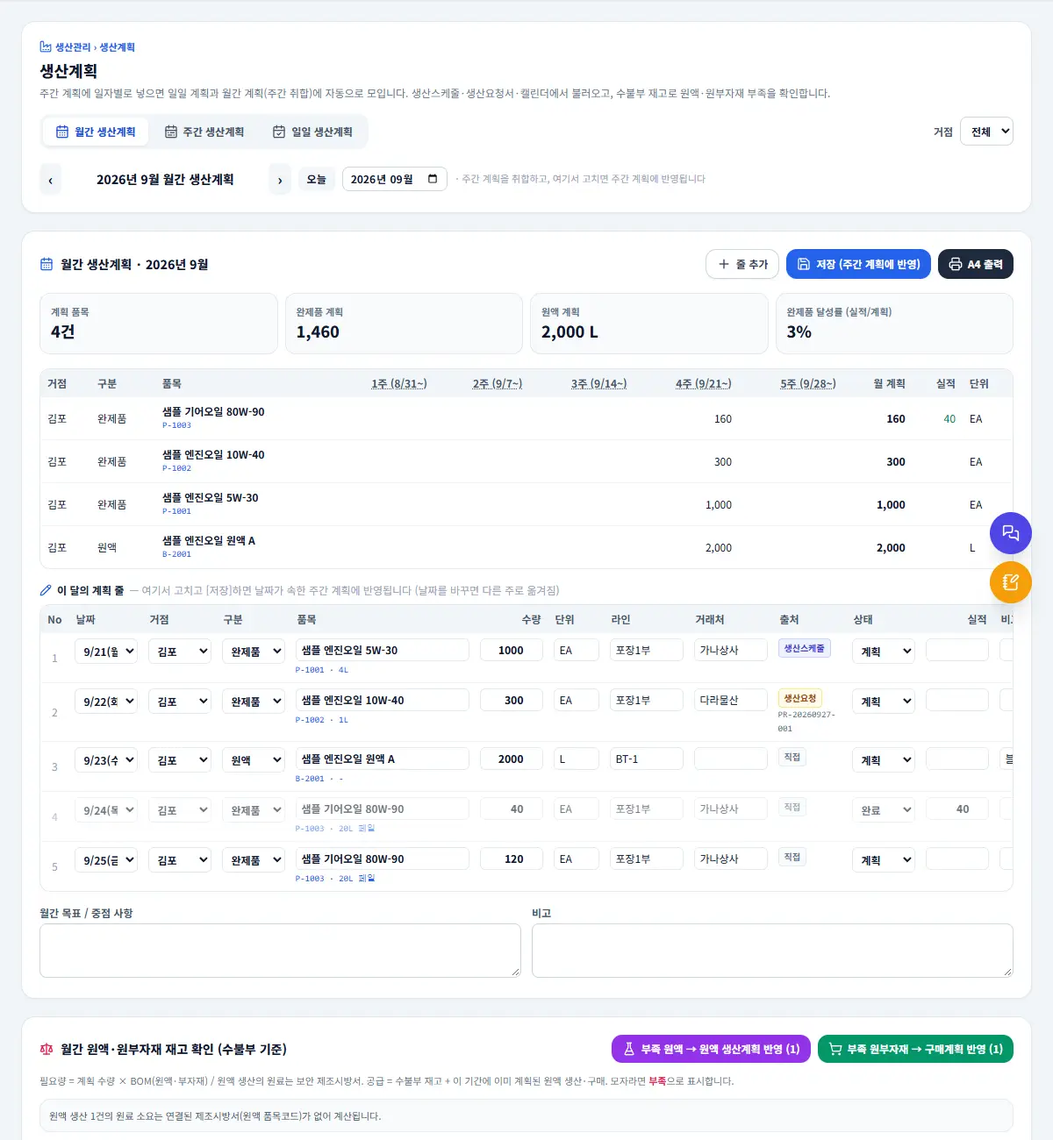
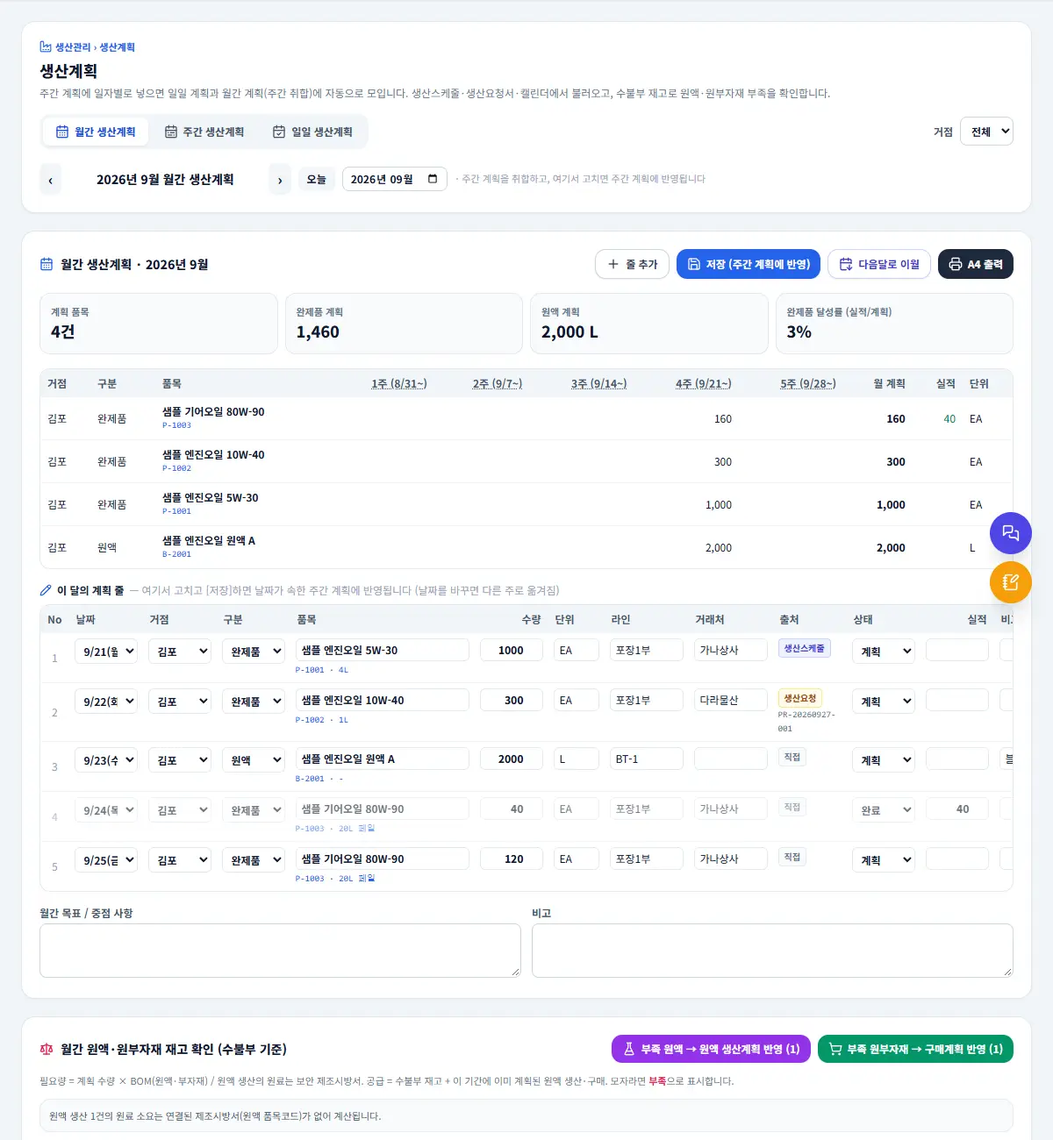
생산계획 '다음주로 이전'·'다음달로 이월' 버튼, 생산스케줄 원액 칸 분리
- 주간: 완료되지 않은 줄을 골라 다음 주(+7일)로, 월간: 다음 달 같은 날짜(말일 보정)로 이월
- 실적이 없는 줄은 통째로 옮기고, 일부 생산한 줄은 남은 수량만 넘기고 원래 줄은 실적 수량으로 완료 처리
- 생산스케줄: '원부자재' 앞에 '원액' 칸 (원액 품명·수량·재고완/부족, 예전 줄은 원액 상태 글자), 원부자재 칸은 원액 제외, 인쇄도 동일
- 매뉴얼 갱신

Changed region(s): [[0.5858, 0.2154, 0.8942, 0.2462]]

diff --git a/src/components/ProdScheduleTable.js b/src/components/ProdScheduleTable.js
@@ -228,16 +228,33 @@ export const renderProdSchedule = (el, { showToast = () => {}, onChanged = () =>
     // 원부자재 칸: 소요 품목이 있는 줄은 부족한 칸만 '부족', 모두 있으면 '원부자재 완비'만.
     // 소요 품목명·수량은 [소요 n품목 ▾]를 눌러야 펼쳐진다. 소요 품목이 없는 예전 줄은 상태 글자를 그대로 보여준다.
     const expanded = new Set();
+    // 원액 칸 (원부자재 칸 앞): 원액 품목·수량과 재고완/부족. 소요 품목이 없는 예전 줄은 '원액' 상태 글자.
+    const rawCellHtml = (r) => {
+        if (!isAutoRow(r)) {
+            const v = r.materials?.raw;
+            return v ? `<span class="px-1 py-0.5 rounded border text-[10px] font-bold ${matTone(v)}" title="원액: ${esc(v)}">${esc(v.split('→').pop().trim().slice(0, 10))}</span>` : '<span class="text-slate-300">-</span>';
+        }
+        const raws = (allocMap.get(r.id) || []).filter(it => slotOf(it) === 'raw');
+        if (!raws.length) return '<span class="text-slate-300" title="원액 소요 없음">X</span>';
+        return `<div class="min-w-[120px] space-y-0.5">${raws.map(it => `<div class="text-[10px] leading-tight" title="수불부 재고 ${fmt(it.stock)} · 앞선 줄 사용 후 ${fmt(Math.max(0, it.avail))}">
+            <div class="font-bold text-slate-800 truncate max-w-[160px]">${esc(it.name)}</div>
+            <div><b>${fmt(it.qty)}${esc(it.unit || 'L')}</b> ${it.done ? '' : it.short > 0 ? `<span class="px-1 rounded bg-rose-100 text-rose-700 font-black">부족 ${fmt(it.short)}</span>` : it.code ? '<span class="px-1 rounded bg-emerald-50 text-emerald-700 font-bold">재고완</span>' : ''}
+            ${planRefs.has(schedRef(r, it.code)) ? '<span class="px-1 rounded bg-violet-100 text-violet-700 font-bold">🧪 원액계획</span>' : ''}</div></div>`).join('')}</div>`;
+    };
+    // 원부자재 칸: 원액을 뺀 나머지 (원액은 앞 칸)
     const matCellHtml = (r) => {
         if (!isAutoRow(r)) {
-            return `<div class="flex flex-wrap gap-0.5 min-w-[150px]">${MATERIAL_KEYS.filter(([k]) => r.materials?.[k]).map(([k, label]) => `<span class="px-1 py-0.5 rounded border text-[10px] font-bold ${matTone(r.materials[k])}" title="${esc(label)}: ${esc(r.materials[k])}">${esc(label)} ${esc(r.materials[k].split('→').pop().trim().slice(0, 8))}</span>`).join('')}${r.matsDone ? '<span class="px-1 py-0.5 rounded bg-emerald-600 text-white text-[10px] font-black">원부자재 완비</span>' : ''}</div>`;
+            return `<div class="flex flex-wrap gap-0.5 min-w-[150px]">${MATERIAL_KEYS.filter(([k]) => k !== 'raw' && r.materials?.[k]).map(([k, label]) => `<span class="px-1 py-0.5 rounded border text-[10px] font-bold ${matTone(r.materials[k])}" title="${esc(label)}: ${esc(r.materials[k])}">${esc(label)} ${esc(r.materials[k].split('→').pop().trim().slice(0, 8))}</span>`).join('')}${r.matsDone ? '<span class="px-1 py-0.5 rounded bg-emerald-600 text-white text-[10px] font-black">원부자재 완비</span>' : ''}</div>`;
         }
-        const items = allocMap.get(r.id) || [];
+        const allItems = allocMap.get(r.id) || [];
+        const items = allItems.filter(it => slotOf(it) !== 'raw');
         const st = autoSlotStatus(items);
-        const shortKeys = MATERIAL_KEYS.filter(([k]) => st[k].short > 0);
+        const shortKeys = MATERIAL_KEYS.filter(([k]) => k !== 'raw' && st[k].short > 0);
         const otherShort = items.filter(it => !slotOf(it) && !it.done && it.short > 0);
         const anyShort = shortKeys.length || otherShort.length;
         const open = expanded.has(r.id);
+        const planBtn = canPlan && allItems.some(it => it.short > 0 && !it.done && it.code);
+        if (!items.length) return planBtn ? '<button type="button" class="ps-row-plan px-1.5 py-0.5 rounded border border-emerald-300 bg-emerald-50 text-emerald-700 text-[10px] font-black hover:bg-emerald-100">🛒 부족분 계획 반영</button>' : '<span class="text-slate-300">-</span>';
         return `<div class="min-w-[170px] space-y-1">
             <div class="flex flex-wrap gap-0.5">
                 ${anyShort ? [
@@ -247,7 +264,7 @@ export const renderProdSchedule = (el, { showToast = () => {}, onChanged = () =>
             </div>
             <div class="flex flex-wrap items-center gap-1">
                 <button type="button" class="ps-mat-toggle text-[10px] font-bold text-slate-500 hover:text-slate-800 underline decoration-dotted">소요 ${items.length}품목 ${open ? '▴' : '▾'}</button>
-                ${anyShort && canPlan && items.some(it => it.short > 0 && !it.done && it.code) ? '<button type="button" class="ps-row-plan px-1.5 py-0.5 rounded border border-emerald-300 bg-emerald-50 text-emerald-700 text-[10px] font-black hover:bg-emerald-100">🛒 부족분 계획 반영</button>' : ''}
+                ${planBtn ? '<button type="button" class="ps-row-plan px-1.5 py-0.5 rounded border border-emerald-300 bg-emerald-50 text-emerald-700 text-[10px] font-black hover:bg-emerald-100">🛒 부족분 계획 반영</button>' : ''}
             </div>
             ${open ? `<div class="p-1.5 rounded-lg bg-slate-50 border border-slate-200 space-y-0.5">${items.map(it => `<div class="text-[10px] leading-tight ${!it.done && it.short > 0 ? 'text-rose-700 font-black' : 'text-slate-600'}" title="수불부 재고 ${fmt(it.stock)} · 창고 재고 ${fmt(it.inv)} · 앞선 줄 사용 후 ${fmt(Math.max(0, it.avail))}">
                 <span class="px-1 rounded bg-white border border-slate-200 text-slate-500 font-bold">${esc(MATERIAL_KEYS.find(([k]) => k === slotOf(it))?.[1] || '기타')}</span>
@@ -274,6 +291,7 @@ export const renderProdSchedule = (el, { showToast = () => {}, onChanged = () =>
             <td class="p-1.5 text-right font-mono font-black">${fmt(r.qty)}</td>
             <td class="p-1.5 text-right font-mono whitespace-nowrap">${fmt(boxesOf(r))}${r.perBox ? `<div class="text-[10px] text-slate-400">×${fmt(r.perBox)}</div>` : ''}</td>
             <td class="p-1.5 text-[11px] text-slate-600 min-w-[90px]">${esc(r.container)}</td>
+            <td class="p-1.5">${rawCellHtml(r)}</td>
             <td class="p-1.5">${matCellHtml(r)}</td>
             <td class="p-1.5 font-mono whitespace-nowrap text-[11px]">${r.prodStart || r.prodEnd ? `${esc(md(r.prodStart))}~${esc(md(r.prodEnd))}` : ''}</td>
             <td class="p-1.5 font-mono text-[11px]">${esc(r.lotNo)}</td>
@@ -390,11 +408,11 @@ export const renderProdSchedule = (el, { showToast = () => {}, onChanged = () =>
                     <thead class="bg-slate-100 text-slate-600 font-bold sticky top-0 z-10"><tr>
                         <th class="p-1.5 text-left">상태</th><th class="p-1.5 text-left">수주</th><th class="p-1.5 text-left">납품예정</th><th class="p-1.5 text-left">포장계획</th>
                         <th class="p-1.5 text-left">거래처/담당</th><th class="p-1.5 text-left">품명</th><th class="p-1.5 text-right">수량(ea)</th><th class="p-1.5 text-right">박스</th>
-                        <th class="p-1.5 text-left">용기</th><th class="p-1.5 text-left">원부자재</th><th class="p-1.5 text-left">생산</th><th class="p-1.5 text-left">LOT</th><th class="p-1.5 text-left">출고</th><th class="p-1.5 text-left">비고</th><th class="p-1.5"></th>
+                        <th class="p-1.5 text-left">용기</th><th class="p-1.5 text-left">원액</th><th class="p-1.5 text-left">원부자재</th><th class="p-1.5 text-left">생산</th><th class="p-1.5 text-left">LOT</th><th class="p-1.5 text-left">출고</th><th class="p-1.5 text-left">비고</th><th class="p-1.5"></th>
                     </tr></thead>
                     <tbody class="divide-y divide-slate-100">
-                        ${groups.map(g => { const s = sum(g.rows); return `<tr class="bg-indigo-50/70"><td colspan="15" class="px-2 py-1.5 font-black text-indigo-900">${esc(g.key)} <span class="font-bold text-indigo-600">(${g.rows.length}줄 · ${fmt(s.qty)} ea · ${fmt(s.box)} 박스)</span></td></tr>${g.rows.map(rowHtml).join('')}`; }).join('')
-                            || `<tr><td colspan="15" class="p-8 text-center text-slate-400 font-bold">${loading ? '불러오는 중…' : '조건에 맞는 줄이 없습니다.'}</td></tr>`}
+                        ${groups.map(g => { const s = sum(g.rows); return `<tr class="bg-indigo-50/70"><td colspan="16" class="px-2 py-1.5 font-black text-indigo-900">${esc(g.key)} <span class="font-bold text-indigo-600">(${g.rows.length}줄 · ${fmt(s.qty)} ea · ${fmt(s.box)} 박스)</span></td></tr>${g.rows.map(rowHtml).join('')}`; }).join('')
+                            || `<tr><td colspan="16" class="p-8 text-center text-slate-400 font-bold">${loading ? '불러오는 중…' : '조건에 맞는 줄이 없습니다.'}</td></tr>`}
                     </tbody>
                 </table>
             </div>
@@ -742,10 +760,12 @@ export const renderProdSchedule = (el, { showToast = () => {}, onChanged = () =>
         const body = groupsOf(list).map(g => {
             const q = g.rows.reduce((s, r) => s + (Number(r.qty) || 0), 0);
             const b = g.rows.reduce((s, r) => s + (Number(boxesOf(r)) || 0), 0);
-            return `<tr class="grp"><td colspan="13">${esc(g.key)} — ${g.rows.length}줄 · ${fmt(q)} ea · ${fmt(b)} 박스</td></tr>`
+            return `<tr class="grp"><td colspan="14">${esc(g.key)} — ${g.rows.length}줄 · ${fmt(q)} ea · ${fmt(b)} 박스</td></tr>`
                 + g.rows.map(r => `<tr>${cell(PROD_STATUS[r.status]?.label)}${cell(md(r.orderDate))}${cell(dateOrText(r.dueDate, r.dueText))}${cell(dateOrText(r.planDate, r.planText))}${cell(`${r.partner}${r.manager ? ` / ${r.manager}` : ''}`)}${cell(`${r.itemCode ? `[${r.itemCode}] ` : ''}${r.itemName}`, 'name')}${cell(fmt(r.qty), 'num')}${cell(`${fmt(boxesOf(r))}${r.perBox ? ` (×${fmt(r.perBox)})` : ''}`, 'num')}${cell(r.container)}<td class="small">${isAutoRow(r)
-                    ? (() => { const tx = slotTexts(r); const shorts = MATERIAL_KEYS.map(([, l], i) => (tx[i].startsWith('부족') ? `${l} ${tx[i]}` : '')).filter(Boolean); return shorts.length ? `<span class="short">${esc(shorts.join(' · '))}</span>` : '원부자재 완비'; })()
-                    : `${esc(MATERIAL_KEYS.filter(([k]) => r.materials?.[k]).map(([k, l]) => `${l}:${r.materials[k]}`).join(' · '))}${r.matsDone ? ' (완비)' : ''}`}</td>${cell(r.lotNo)}${cell(md(r.shipDate))}${cell(r.notes, 'small')}</tr>`).join('');
+                    ? ((allocMap.get(r.id) || []).filter(it => slotOf(it) === 'raw').map(it => `<div class="${!it.done && it.short > 0 ? 'short' : ''}">${esc(it.name)} ${fmt(it.qty)}${esc(it.unit || 'L')}${!it.done && it.short > 0 ? ` 부족 ${fmt(it.short)}` : it.done ? '' : ' 재고완'}</div>`).join('') || 'X')
+                    : esc(r.materials?.raw || '')}</td><td class="small">${isAutoRow(r)
+                    ? (() => { const tx = slotTexts(r); const shorts = MATERIAL_KEYS.map(([k, l], i) => (k !== 'raw' && tx[i].startsWith('부족') ? `${l} ${tx[i]}` : '')).filter(Boolean); return shorts.length ? `<span class="short">${esc(shorts.join(' · '))}</span>` : '원부자재 완비'; })()
+                    : `${esc(MATERIAL_KEYS.filter(([k]) => k !== 'raw' && r.materials?.[k]).map(([k, l]) => `${l}:${r.materials[k]}`).join(' · '))}${r.matsDone ? ' (완비)' : ''}`}</td>${cell(r.lotNo)}${cell(md(r.shipDate))}${cell(r.notes, 'small')}</tr>`).join('');
         }).join('');
         w.document.write(`<!DOCTYPE html><html lang="ko"><head><meta charset="utf-8"><title>생산 스케줄 ${cur}</title><style>
             @page { size: A4 landscape; margin: 8mm; } body { font-family: 'Malgun Gothic', sans-serif; font-size: 8pt; color: #000; }
@@ -754,7 +774,7 @@ export const renderProdSchedule = (el, { showToast = () => {}, onChanged = () =>
             th { background: #e5e7eb; font-weight: 800; } .grp td { background: #eef2ff; font-weight: 800; } .num { text-align: right; white-space: nowrap; }
             .name { font-weight: 700; min-width: 160px; } .small { font-size: 7pt; } tr { page-break-inside: avoid; } .short { color: #c00; font-weight: 800; }
         </style></head><body><h1>대림오일 생산(포장) SCHEDULE</h1><div class="sub">작성일자 ${cur} · 출력일 ${today} · ${f.site === 'DONE' ? '완료·출고대기' : `${VIEW_TABS.find(([v]) => v === f.site)?.[1] === '전체' ? '본사·김포' : VIEW_TABS.find(([v]) => v === f.site)?.[1] || '본사·김포'} · ${f.status === 'ACTIVE' ? '진행 중' : f.status === 'ALL' ? '전체' : PROD_STATUS[f.status]?.label}`} · ${list.length}줄</div>
-            <table><thead><tr><th>상태</th><th>수주</th><th>납품예정</th><th>포장계획</th><th>거래처/담당</th><th>품명</th><th>수량(ea)</th><th>박스</th><th>용기</th><th>원부자재</th><th>LOT</th><th>출고</th><th>비고</th></tr></thead><tbody>${body}</tbody></table>
+            <table><thead><tr><th>상태</th><th>수주</th><th>납품예정</th><th>포장계획</th><th>거래처/담당</th><th>품명</th><th>수량(ea)</th><th>박스</th><th>용기</th><th>원액</th><th>원부자재</th><th>LOT</th><th>출고</th><th>비고</th></tr></thead><tbody>${body}</tbody></table>
             <script>window.onload = function () { setTimeout(function () { window.print(); }, 200); };<\/script></body></html>`);
         w.document.close();
     };

diff --git a/src/components/ProductionPlan.js b/src/components/ProductionPlan.js
@@ -5,7 +5,7 @@ import { esc } from '../services/html.js';
 import { localDateStr } from '../services/searchUtils.js';
 import {
     weekStart, weekDays, weekLabel, addDays, dowOf, md, monthOf, monthWeeks, loadWeek, savePlan, deletePlan, getPlan,
-    loadMonthLines, listPlans, planId, newLineId, round3, monthDays, saveMonthLines, PROD_LINE_STATUS, SOURCE_LABEL, REQ_STATUS, PLAN_SITES
+    loadMonthLines, listPlans, planId, newLineId, round3, monthDays, saveMonthLines, carryable, carryRemain, carryOverLines, shiftNextWeek, shiftNextMonth, PROD_LINE_STATUS, SOURCE_LABEL, REQ_STATUS, PLAN_SITES
 } from '../services/plans.js';
 import { listProdDates, listProdSchedule, PROD_STATUS } from '../services/prodSchedule.js';
 import { renderLineTable, printA4, printTableHtml, btn, fmtQty, siteOptions } from './plans/planCommon.js';
@@ -94,6 +94,48 @@ export const renderProductionPlan = (container, { showToast, onSwitchTab }) => {
             $('#pp-body').innerHTML = `<div class="p-6 bg-rose-50 border border-rose-200 rounded-2xl text-sm text-rose-700 font-bold">${esc(err.message)}</div>`;
         }
         createIcons({ icons });
+    };
+
+    // 이월 창: 완료되지 않은 줄을 골라 다음 주·다음 달로 옮긴다
+    const openCarryDialog = ({ title, lines, shift, label, onDone }) => {
+        if (dirty) { alert('저장하지 않은 변경이 있습니다. 먼저 [저장]을 누른 뒤 이월하세요.'); return; }
+        const list = carryable(lines);
+        if (!list.length) { alert('넘길 줄이 없습니다. (완료되지 않았고 남은 수량이 있는 줄만 넘깁니다)'); return; }
+        const box = document.createElement('div');
+        box.className = 'fixed inset-0 z-[70] bg-slate-900/60 p-3 overflow-y-auto flex items-start justify-center';
+        box.innerHTML = `<div class="bg-white rounded-2xl shadow-2xl w-full max-w-3xl my-6 text-xs overflow-hidden">
+            <div class="px-4 py-3 bg-slate-900 text-white flex items-center justify-between"><h3 class="font-black text-sm">${esc(title)}</h3><button type="button" class="cd-close text-slate-300 hover:text-white text-xl px-1">&times;</button></div>
+            <div class="p-4 space-y-3">
+                <p class="text-slate-600">완료되지 않은 줄 ${list.length}개입니다. 넘길 줄을 고르세요. <b>실적이 없는 줄은 통째로 옮기고</b>, 일부 생산한 줄은 <b>남은 수량만</b> 넘기고 원래 줄은 실적 수량으로 완료 처리합니다.</p>
+                <div class="overflow-x-auto border border-slate-200 rounded-xl max-h-[55vh]">
+                    <table class="w-full"><thead class="bg-slate-100 text-slate-600 sticky top-0"><tr>
+                        <th class="p-2 w-8"><input type="checkbox" id="cd-all" checked /></th><th class="p-2 text-left">날짜</th><th class="p-2 text-left">거점·구분</th><th class="p-2 text-left">품목</th>
+                        <th class="p-2 text-right">계획</th><th class="p-2 text-right">실적</th><th class="p-2 text-right">넘길 수량</th><th class="p-2 text-left">상태</th></tr></thead>
+                    <tbody class="divide-y divide-slate-100">${list.map((l, i) => `<tr>
+                        <td class="p-2 text-center"><input type="checkbox" class="cd-chk" data-i="${i}" checked /></td>
+                        <td class="p-2 whitespace-nowrap">${esc(md(l.date))}(${dowOf(l.date)}) → <b class="text-blue-700">${esc(md(shift(l.date)))}(${dowOf(shift(l.date))})</b></td>
+                        <td class="p-2">${esc(l.site)} · ${esc(l.type)}</td>
+                        <td class="p-2"><div class="font-bold">${esc(l.name)}</div><div class="text-[10px] font-mono text-blue-600">${esc(l.code || '')}</div></td>
+                        <td class="p-2 text-right">${fmtQty(l.qty)}</td><td class="p-2 text-right text-emerald-700">${l.doneQty ? fmtQty(l.doneQty) : ''}</td>
+                        <td class="p-2 text-right font-black">${fmtQty(carryRemain(l))} ${esc(unitOf(l))}</td><td class="p-2">${esc(PROD_LINE_STATUS[l.status] || '')}</td></tr>`).join('')}</tbody></table>
+                </div>
+                <div class="flex justify-end gap-2"><button type="button" class="cd-close px-3 py-2 bg-white border border-slate-300 rounded-lg font-bold">취소</button>
+                    <button type="button" id="cd-ok" class="px-4 py-2 bg-blue-600 hover:bg-blue-700 text-white rounded-lg font-black">선택한 줄 ${esc(label)}</button></div>
+            </div></div>`;
+        document.body.appendChild(box);
+        const close = () => box.remove();
+        box.querySelectorAll('.cd-close').forEach(b => b.addEventListener('click', close));
+        box.querySelector('#cd-all').addEventListener('change', (e) => box.querySelectorAll('.cd-chk').forEach(c => { c.checked = e.target.checked; }));
+        box.querySelector('#cd-ok').addEventListener('click', async () => {
+            const chosen = [...box.querySelectorAll('.cd-chk')].filter(c => c.checked).map(c => list[Number(c.dataset.i)]);
+            if (!chosen.length) { alert('넘길 줄을 고르세요.'); return; }
+            try {
+                const res = await carryOverLines('PROD_WEEK', chosen, shift, label);
+                close();
+                showToast(`➡ ${res.count}줄을 ${label}했습니다.`);
+                onDone?.(res);
+            } catch (e) { alert(e.message); }
+        });
     };
 
     const saveDoc = async () => {
@@ -238,6 +280,7 @@ export const renderProductionPlan = (container, { showToast, onSwitchTab }) => {
                         <button type="button" id="pp-imp-cal" class="${btn('bg-sky-50 text-sky-700 border border-sky-200 hover:bg-sky-100')}"><i data-lucide="calendar" class="w-4 h-4"></i>캘린더 일정 불러오기</button>
                         <button type="button" id="pp-add" class="${btn('bg-white text-slate-700 border border-slate-300 hover:bg-slate-50')}"><i data-lucide="plus" class="w-4 h-4"></i>줄 추가</button>
                         <button type="button" id="pp-save" class="${btn('bg-blue-600 hover:bg-blue-700 text-white')}"><i data-lucide="save" class="w-4 h-4"></i>저장</button>
+                        <button type="button" id="pp-carry" class="${btn('bg-white text-indigo-700 border border-indigo-200 hover:bg-indigo-50')}"><i data-lucide="calendar-arrow-down" class="w-4 h-4"></i>다음주로 이전</button>
                         ${exists ? `<button type="button" id="pp-del" class="${btn('bg-white text-rose-600 border border-rose-200 hover:bg-rose-50')}"><i data-lucide="trash-2" class="w-4 h-4"></i>주간 계획 삭제</button>` : ''}` : ''}
                         <button type="button" id="pp-print" class="${btn()}"><i data-lucide="printer" class="w-4 h-4"></i>A4 출력</button>
                     </div>
@@ -265,6 +308,10 @@ export const renderProductionPlan = (container, { showToast, onSwitchTab }) => {
             renderWeekLines();
         });
         $('#pp-save')?.addEventListener('click', async () => { try { await saveDoc(); await render(); } catch (e) { alert(e.message); } });
+        $('#pp-carry')?.addEventListener('click', () => openCarryDialog({
+            title: `다음주로 이전 — ${weekLabel(monday)} → ${weekLabel(addDays(monday, 7))}`, lines: doc.lines.filter(siteOk),
+            shift: shiftNextWeek, label: '다음주로 이전', onDone: () => { monday = addDays(monday, 7); render(); }
+        }));
         $('#pp-del')?.addEventListener('click', async () => {
             if (!confirm(`${weekLabel(monday)} 주간 생산계획을 삭제할까요? (일일 계획·월간 취합에서도 빠집니다)`)) return;
             try { await deletePlan(doc.id); setDirty(false); showToast('🗑 주간 생산계획을 삭제했습니다.'); await render(); } catch (e) { alert(e.message); }
@@ -452,6 +499,7 @@ export const renderProductionPlan = (container, { showToast, onSwitchTab }) => {
                     <div class="flex flex-wrap gap-2">
                         ${canEdit ? `<button type="button" id="pp-add" class="${btn('bg-white text-slate-700 border border-slate-300 hover:bg-slate-50')}"><i data-lucide="plus" class="w-4 h-4"></i>줄 추가</button>
                         <button type="button" id="pp-save" class="${btn('bg-blue-600 hover:bg-blue-700 text-white')}"><i data-lucide="save" class="w-4 h-4"></i>저장 (주간 계획에 반영)</button>
+                        <button type="button" id="pp-carry" class="${btn('bg-white text-indigo-700 border border-indigo-200 hover:bg-indigo-50')}"><i data-lucide="calendar-arrow-down" class="w-4 h-4"></i>다음달로 이월</button>
                         ${head.createdAt ? `<button type="button" id="pp-del" class="${btn('bg-white text-rose-600 border border-rose-200 hover:bg-rose-50')}"><i data-lucide="trash-2" class="w-4 h-4"></i>목표·비고 삭제</button>` : ''}` : ''}
                         <button type="button" id="pp-print" class="${btn()}"><i data-lucide="printer" class="w-4 h-4"></i>A4 출력</button>
                     </div>
@@ -492,6 +540,13 @@ export const renderProductionPlan = (container, { showToast, onSwitchTab }) => {
                 showToast(`💾 월간 생산계획을 저장했습니다.${changedWeeks.length ? ` 주간 계획 ${changedWeeks.length}개 주에 반영 (${changedWeeks.map(w => md(w)).join(', ')} 주)` : ''}`);
                 await render();
             } catch (e) { alert(e.message); }
+        });
+        $('#pp-carry')?.addEventListener('click', () => {
+            const next = monthOf(shiftNextMonth(`${ym}-01`));
+            openCarryDialog({
+                title: `다음달로 이월 — ${y}년 ${m}월 → ${next.replace('-', '년 ')}월`, lines: all.filter(siteOk),
+                shift: shiftNextMonth, label: '다음달로 이월', onDone: () => { ym = next; render(); }
+            });
         });
         $('#pp-del')?.addEventListener('click', async () => { if (!confirm('월간 목표·비고를 삭제할까요? (계획 줄은 그대로 남습니다)')) return; try { await deletePlan(head.id); setDirty(false); await render(); } catch (e) { alert(e.message); } });
         $('#pp-print').addEventListener('click', () => {

diff --git a/src/data/manualContent.js b/src/data/manualContent.js
@@ -137,7 +137,8 @@ const USER_MANUAL = {
                         '`+ 줄 추가`로 주문을 넣습니다 (구분 본사/김포, 라인, 거래처, 품목코드·품명, 수량, 납품예정, 포장계획, 원부자재 등).',
                         '진행에 따라 **상태**(보류·예정·준비·생산중·완료·출고)를 바꿉니다. 생산중·완료·출고로 바꾸면 날짜가 자동으로 들어갑니다.',
                         '표 위 보기 탭으로 나눠 봅니다: `전체` · `본사` · `김포` · `OEM` · `ODM` · `완료·출고대기` (탭 옆 숫자 = 줄 수). 진행 중 보기에서는 완료·출고대기 줄이 빠지고 `완료·출고대기` 탭에서 따로 봅니다.',
-                        '표의 `원부자재` 칸에는 **부족한 분류만** 빨갛게(예: `용기 부족 100EA`) 보이고, 모두 있으면 **`원부자재 완비`만** 보입니다. 소요 품목명·수량은 `소요 n품목 ▾`를 누르면 펼쳐집니다. 모자란 줄은 품명 아래 **⚠ 원부자재 부족**, 표 위에 **원부자재 부족 n줄**로도 표시됩니다.',
+                        '`원액` 칸(원부자재 앞)에는 소요 원액의 품명·수량과 `재고완` / `부족 n`이 따로 보입니다 (원액이 필요 없는 줄은 X).',
+                        '표의 `원부자재` 칸(원액 제외)에는 **부족한 분류만** 빨갛게(예: `용기 부족 100EA`) 보이고, 모두 있으면 **`원부자재 완비`만** 보입니다. 소요 품목명·수량은 `소요 n품목 ▾`를 누르면 펼쳐집니다. 모자란 줄은 품명 아래 **⚠ 원부자재 부족**, 표 위에 **원부자재 부족 n줄**로도 표시됩니다.',
                         '`A4 스케줄 인쇄`, `엑셀 다운로드`를 씁니다 (소요 원부자재와 부족량도 함께 나옵니다). 예전 엑셀 파일은 `엑셀 가져오기`로 날짜 시트를 옮깁니다 (이미 있는 줄은 건너뜀).'
                     ],
                     tips: ['캘린더에는 **최신 작성일자**의 포장계획(🏭)·납품예정(🚚)이 표시되고, 누르면 바로 수정 창이 열립니다.', '납기가 지난 줄은 빨강, 7일 안은 주황으로 표시됩니다.',
@@ -262,6 +263,7 @@ const USER_MANUAL = {
                         '`줄 추가`로 직접 넣을 수도 있습니다. 날짜·거점·구분(완제품/원액)·품목(검색)·수량·라인·거래처·납기·상태·비고를 입력합니다.',
                         '`출처` 칸에 줄이 어디서 왔는지 보입니다 (생산스케줄이면 스케줄 진행 상태도 표시).',
                         '`저장`을 누릅니다. 위쪽 요일 카드를 누르면 그 날의 일일 계획으로 이동합니다.',
+                        '`다음주로 이전`: 이 주의 **완료되지 않은 줄**을 골라 다음 주 같은 요일(+7일)로 옮깁니다. 실적이 없는 줄은 통째로, 일부 생산한 줄은 **남은 수량만** 넘기고 원래 줄은 실적 수량으로 완료 처리합니다.',
                         '`A4 출력`은 가로 A4 **주간 생산계획서**(날짜별 묶음·결재란·비고)입니다.'
                     ],
                     cautions: [
@@ -324,6 +326,7 @@ const USER_MANUAL = {
                         '아래 **이 달의 계획 줄**에서 날짜·거점·구분·품목·수량·라인·거래처·상태·실적·비고를 **직접 고치거나**, `줄 추가`로 넣거나, × 로 지웁니다. 고치는 동안 위 표가 바로 다시 계산됩니다.',
                         '`저장 (주간 계획에 반영)`을 누르면 각 줄이 **날짜가 속한 주의 주간 계획**에 저장됩니다. 날짜를 다른 주로 바꾸면 그 주로 옮겨집니다.',
                         '`월간 목표 / 중점 사항`, `비고`도 같은 `저장`으로 저장됩니다.',
+                        '`다음달로 이월`: 이 달의 **완료되지 않은 줄**을 골라 다음 달 같은 날짜(말일을 넘으면 그 달 말일)로 옮깁니다. 일부 생산한 줄은 남은 수량만 넘깁니다. 이월한 뒤 다음 달 화면이 열립니다.',
                         '아래 **월간 원액·원부자재 재고 확인**으로 한 달 전체의 부족을 보고, 버튼으로 반영합니다 (부족분은 필요한 날짜가 속한 주에 들어감).',
                         '`A4 출력`: 가로 A4 **월간 생산계획서**.'
                     ],

diff --git a/src/services/plans.js b/src/services/plans.js
@@ -318,6 +318,46 @@ export const saveMonthLines = async (kind, ym, edited, keepFn) => {
     return changed;
 };
 
+// ---------- 이월 (다음 주 / 다음 달) ----------
+// 날짜 옮기기: 다음 주 = +7일, 다음 달 = 다음 달 같은 날 (말일을 넘으면 그 달 말일)
+export const shiftNextWeek = (d) => addDays(d, 7);
+export const shiftNextMonth = (d) => {
+    const [y, m, day] = String(d).split('-').map(Number);
+    const ny = m === 12 ? y + 1 : y, nm = m === 12 ? 1 : m + 1;
+    const last = new Date(ny, nm, 0).getDate();
+    return `${ny}-${String(nm).padStart(2, '0')}-${String(Math.min(day, last)).padStart(2, '0')}`;
+};
+// 넘길 수 있는 줄: 완료가 아니고 남은 수량(계획 − 실적)이 있는 줄
+export const carryRemain = (l) => round3((Number(l.qty) || 0) - (Number(l.doneQty) || 0));
+export const carryable = (lines) => lines.filter(l => (l.code || l.name) && l.status !== 'DONE' && carryRemain(l) > 0);
+
+// 고른 줄을 shift한 날짜로 옮긴다 (주간 문서 단위로 저장).
+// 실적이 없으면 줄을 통째로 옮기고, 일부 생산했으면 남은 수량만 새 줄로 넘기고 원래 줄은 실적 수량으로 완료 처리.
+export const carryOverLines = async (kind, lines, shift, label) => {
+    const moves = lines.map(l => ({ l, to: shift(l.date), remain: carryRemain(l), partial: (Number(l.doneQty) || 0) > 0 }));
+    const weeks = [...new Set(moves.flatMap(x => [weekStart(x.l.date), weekStart(x.to)]))].sort();
+    const docs = await listPlans(kind, weeks[0], weeks[weeks.length - 1]);
+    const docOf = new Map(weeks.map(w => [w, docs.find(d => d.period === w) || blankWeek(kind, w)]));
+    for (const { l, to, remain, partial } of moves) {
+        const src = docOf.get(weekStart(l.date));
+        const i = (src.lines || []).findIndex(x => x.id === l.id);
+        if (i < 0) continue;
+        const orig = src.lines[i];
+        if (partial) src.lines[i] = { ...orig, qty: round3(Number(orig.doneQty) || 0), status: 'DONE', note: [orig.note, `잔량 ${remain} ${label}`].filter(Boolean).join(' · ') };
+        else src.lines.splice(i, 1);
+        const dst = docOf.get(weekStart(to));
+        dst.lines = dst.lines || [];
+        dst.lines.push({ ...orig, id: newLineId(), date: to, qty: remain, doneQty: '', status: orig.status === 'WORK' ? 'PLAN' : orig.status,
+            note: [orig.note, `${label} (${md(l.date)}에서)`].filter(Boolean).join(' · '), carriedFrom: orig.id });
+    }
+    for (const doc of docOf.values()) {
+        if (!doc.createdAt && !(doc.lines || []).length) continue;
+        doc.lines = (doc.lines || []).sort((a, b) => String(a.date).localeCompare(String(b.date)));
+        await savePlan(doc);
+    }
+    return { count: moves.length, weeks: [...new Set(moves.map(x => weekStart(x.to)))] };
+};
+
 // 부족분을 주간 계획에 반영 (같은 품목·거점의 '부족 연동' 줄이 있으면 수량을 더함). 주별로 나눠 저장.
 // kind: 'PROD_WEEK'(원액 생산) | 'PURCH_WEEK'(구매)
 export const applyShortages = async (kind, shortRows) => {
